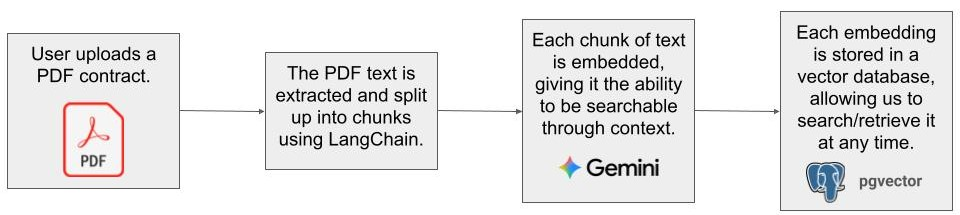
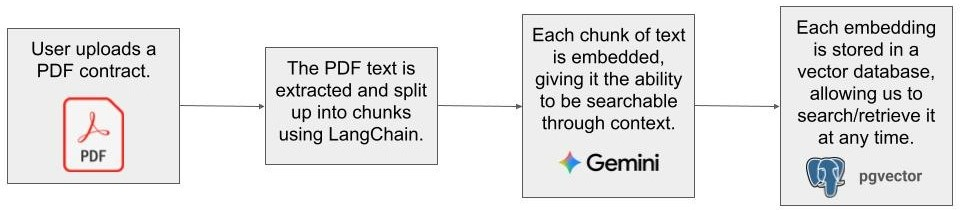
Update ClauseIQ details modal

diff --git a/index.html b/index.html
@@ -141,12 +141,12 @@
         identifies potential risks. While a tool like this could be expanded in
         many ways, I focused on the core functionality: identifying risky
         clauses, missing protections, and opportunities for negotiation.
-      </p>
+      </p><br />
       <img
         src="images/clause-iq-1.png"
         alt="Example table for ClauseIQ application"
       />
-      <h3 style="margin-top: 0px">How does it work?</h3>
+      <h3>How does it work?</h3>
       <p>
         ClauseIQ uses a <strong>Retrieval-Augmented Generation</strong> (RAG) architecture. Users
         upload PDF contracts through a React frontend, and a Python Flask
@@ -160,10 +160,13 @@
         on exact keyword matches. These embeddings are stored in PostgreSQL
         using pgvector.
       </p>
+      <br />
       <img
         src="images/clause-iq-2.jpg"
         alt="Diagram of ClauseIQ architecture"
       />
+      <br />
+      <br />
       <p>
         Before we retrieve embeddings from the uploaded contracts, we need to define what we're looking for. While users could eventually customize their searches, ClauseIQ currently uses a set of predefined queries to guide its analysis:
         <ul>
@@ -175,10 +178,13 @@
         </ul>
         Using the same Gemini embedding model we used for the contract chunks, we convert the predefined queries into embeddings. We then use pgvector to compare these query embeddings against the stored contract-chunk embeddings using cosine distance. A smaller distance indicates greater similarity, while a larger distance indicates less similarity. For each query, pgvector ranks the chunks by distance and returns the closest matches first.
       </p>
+      <br />
       <img
         src="images/clause-iq-3.jpg"
         alt="Diagram of ClauseIQ architecture"
       />
+      <br />
+      <br />
       <p>At this step of the background process, we have searched through the uploaded contract and gathered relevant chunks of text needed for our analysis. While users could eventually customize how their results are presented, ClauseIQ uses a predefined format for presenting the results:
         <ul>
           <li>Risk</li>
@@ -187,6 +193,7 @@
         </ul>
       The relevant chunks of text are sent up to the Gemini API with a predefined prompt that instructs the model to analyze the text and generate a summary of the contract's risks, missing protections, and negotiation opportunities. The model's output is then stored in PostgreSQL and made available to the user through the React frontend.
       </p>
+      <br />
       <img
         src="images/clause-iq-4.png"
         alt="Example analysis output for ClauseIQ application"

diff --git a/js/webcomponents.js b/js/webcomponents.js
@@ -67,11 +67,11 @@ class ProjectCard extends HTMLElement {
               max-height: 85vh;
               padding: 0;
               overflow: auto;
-              border: 1px solid #78909c;
+              border: 1px solid #30363d;
               border-radius: 8px;
-              color: #172a36;
-              background: white;
-              box-shadow: 0 18px 60px rgba(0, 0, 0, 0.35);
+              color: #c9d1d9;
+              background: #0d1117;
+              box-shadow: 0 18px 60px rgba(0, 0, 0, 0.55);
             }
             .details-modal::backdrop {
               background: rgba(0, 0, 0, 0.68);
@@ -85,13 +85,13 @@ class ProjectCard extends HTMLElement {
               justify-content: space-between;
               gap: 16px;
               padding: 16px 22px;
-              border-bottom: 1px solid #d6e0e4;
-              background: white;
+              border-bottom: 1px solid #30363d;
+              background: #161b22;
             }
             .modal-header h2 {
               min-width: 0;
               margin: 0;
-              color: #172a36;
+              color: #f0f6fc;
               text-align: left;
             }
             .modal-actions {
@@ -173,7 +173,11 @@ class ProjectCard extends HTMLElement {
             .modal-body {
               padding: 22px;
               overflow-wrap: anywhere;
+              color: #c9d1d9;
               text-align: left;
+            }
+            .modal-body h3 {
+              color: #f0f6fc;
             }
             .modal-body p {
               height: auto;
